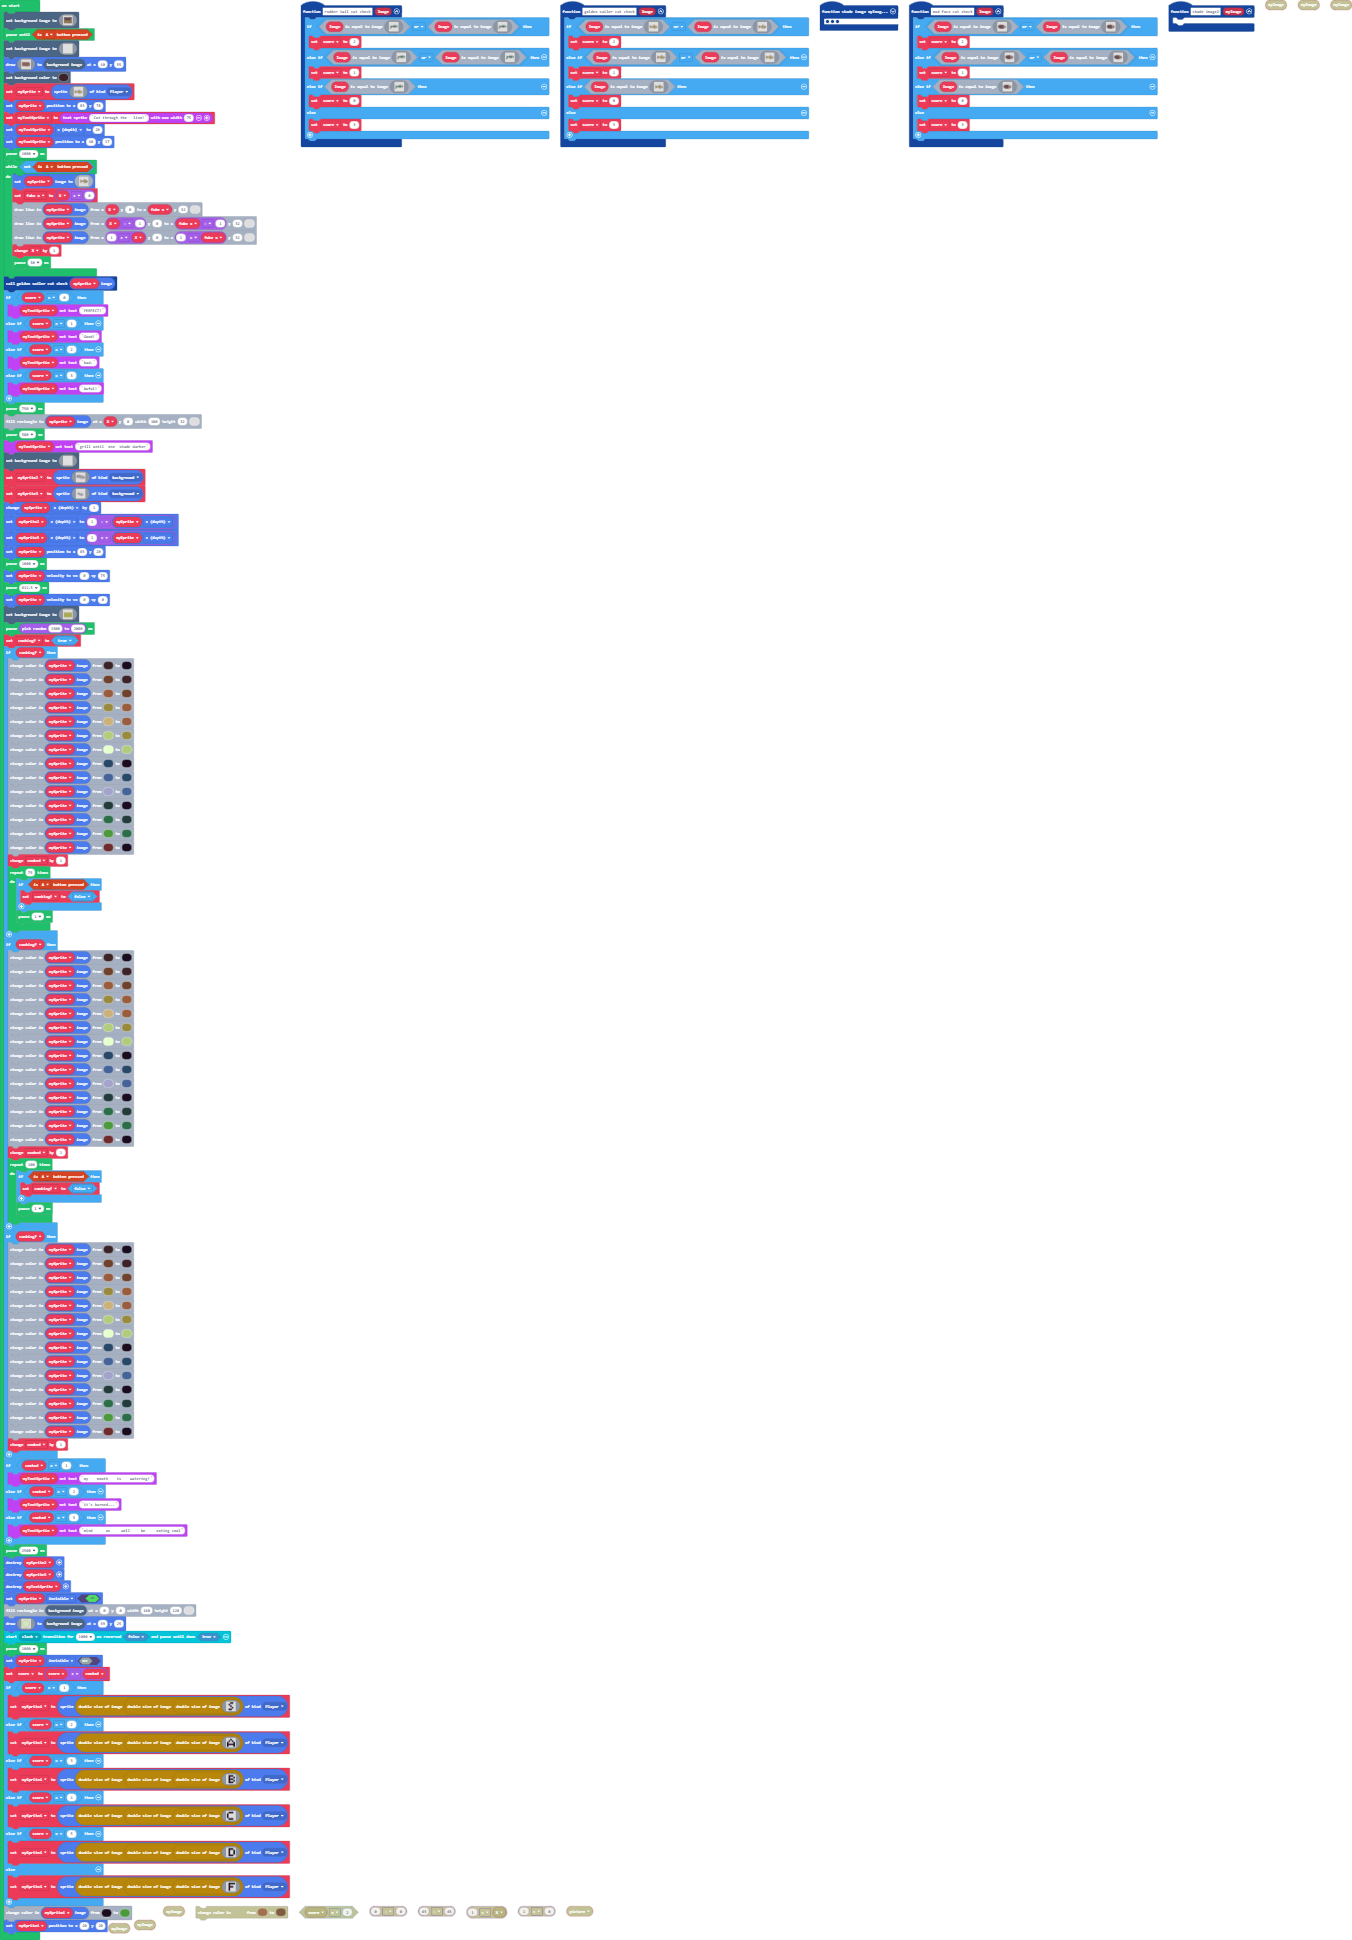
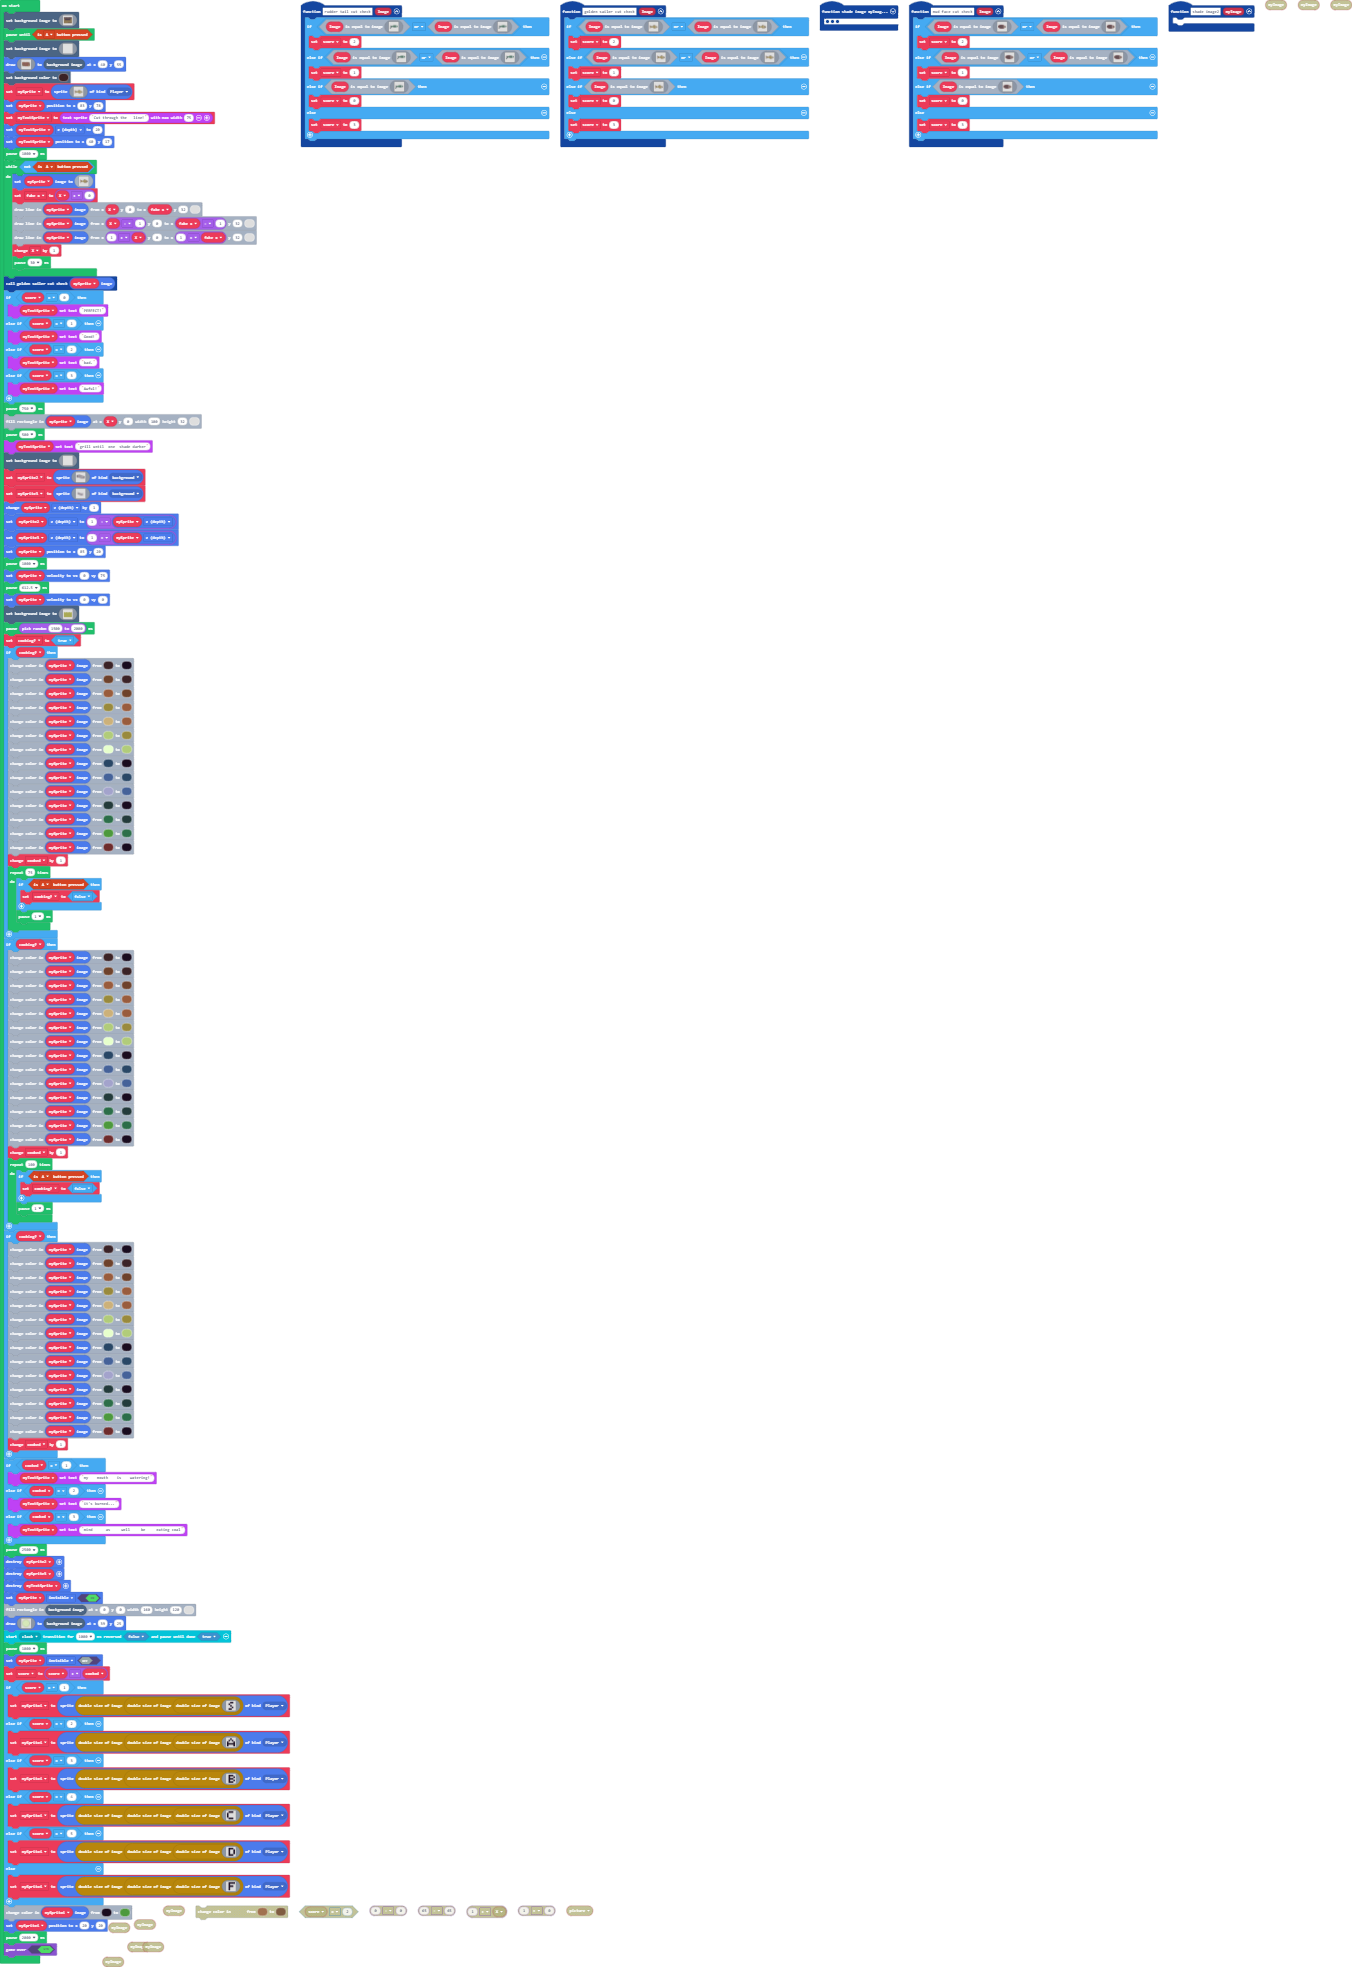
Update main.blocks, main.ts

diff --git a/main.ts b/main.ts
@@ -444,3 +444,5 @@ if (score == 1) {
 }
 mySprite4.image.replace(6, 9)
 mySprite4.setPosition(20, 20)
+pause(2000)
+game.gameOver(true)
